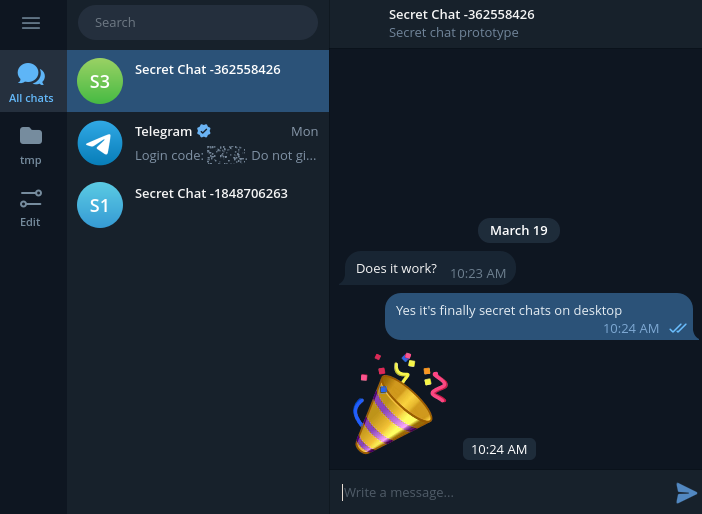
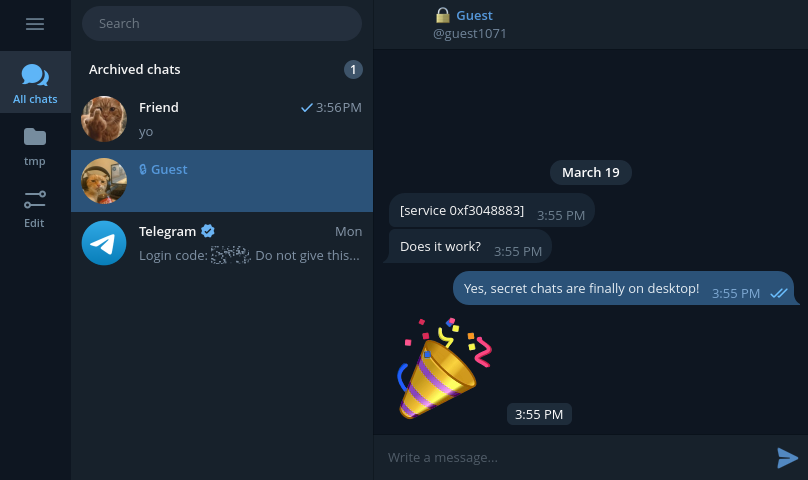
cosmetic improvements

diff --git a/Telegram/SourceFiles/history/view/secret_chat_section.cpp b/Telegram/SourceFiles/history/view/secret_chat_section.cpp
@@ -15,6 +15,7 @@
 
 #include "styles/style_chat.h"
 #include "styles/style_chat_helpers.h"
+#include "styles/style_dialogs.h"
 #include "styles/style_settings.h"
 
 #include "rpl/filter.h"
@@ -23,6 +24,32 @@
 #include <lang_auto.h>
 
 namespace HistoryView {
+
+namespace {
+
+const auto kSecretChatNameColor = QColor(0x4E, 0xAD, 0x41);
+
+void PaintTintedIcon(
+		Painter &p,
+		const style::icon &icon,
+		QPoint position,
+		const QColor &color) {
+	const auto ratio = style::DevicePixelRatio();
+	auto image = QImage(
+		QSize(icon.width() * ratio, icon.height() * ratio),
+		QImage::Format_ARGB32_Premultiplied);
+	image.fill(Qt::transparent);
+	image.setDevicePixelRatio(ratio);
+	{
+		Painter q(&image);
+		icon.paint(q, QPoint(0, 0), icon.width());
+		q.setCompositionMode(QPainter::CompositionMode_SourceIn);
+		q.fillRect(QRect(QPoint(0, 0), QSize(icon.width(), icon.height())), color);
+	}
+	p.drawImage(position, image);
+}
+
+} // namespace
 
 SecretChatMemento::SecretChatMemento(int64_t chatId)
 : _chatId(chatId) {
@@ -66,6 +93,7 @@ SecretChatWidget::SecretChatWidget(
 		tr::lng_message_ph()))
 , _send(std::make_shared<Ui::SendButton>(this, st::historySend)) {
 	_title->setAttribute(Qt::WA_TransparentForMouseEvents);
+	_title->setTextColorOverride(kSecretChatNameColor);
 	_status->setAttribute(Qt::WA_TransparentForMouseEvents);
 	InitMessageField(controller, _field, nullptr);
 	_send->show();
@@ -145,8 +173,11 @@ void SecretChatWidget::checkActivation() {
 
 void SecretChatWidget::resizeEvent(QResizeEvent *e) {
 	SectionWidget::resizeEvent(e);
-	_title->resizeToNaturalWidth(width() - st::previewTop.namePosition.x());
-	_title->move(st::previewTop.namePosition);
+	const auto titleLeft = st::previewTop.namePosition.x()
+		+ st::dialogsUnlockIcon.width()
+		+ st::dialogsChatTypeSkip;
+	_title->resizeToNaturalWidth(width() - titleLeft);
+	_title->move(titleLeft, st::previewTop.namePosition.y());
 	_status->resizeToNaturalWidth(width() - st::previewTop.statusPosition.x());
 	_status->move(st::previewTop.statusPosition);
 	const auto composeHeight = _field->height() + 2 * st::historySendPadding;
@@ -171,6 +202,11 @@ void SecretChatWidget::paintEvent(QPaintEvent *e) {
 		e->rect());
 	p.fillRect(0, height() - st::historySendSize.height(), width(), st::historySendSize.height(), st::historyComposeAreaBg);
 	p.fillRect(0, 0, width(), st::previewTop.height, st::topBarBg);
+	PaintTintedIcon(
+		p,
+		st::dialogsUnlockIcon,
+		st::previewTop.namePosition,
+		kSecretChatNameColor);
 	p.fillRect(0, st::previewTop.height, width(), st::lineWidth, st::shadowFg);
 	p.fillRect(0, height() - st::historySendSize.height() - st::lineWidth, width(), st::lineWidth, st::shadowFg);
 }

diff --git a/Telegram/SourceFiles/dialogs/ui/dialogs_layout.cpp b/Telegram/SourceFiles/dialogs/ui/dialogs_layout.cpp
@@ -54,6 +54,27 @@ namespace Dialogs::Ui {
 namespace {
 
 const auto kPsaBadgePrefix = "cloud_lng_badge_psa_";
+const auto kSecretChatNameColor = QColor(0x4E, 0xAD, 0x41);
+
+void PaintTintedIcon(
+		Painter &p,
+		const style::icon &icon,
+		QPoint position,
+		const QColor &color) {
+	const auto ratio = style::DevicePixelRatio();
+	auto image = QImage(
+		QSize(icon.width() * ratio, icon.height() * ratio),
+		QImage::Format_ARGB32_Premultiplied);
+	image.fill(Qt::transparent);
+	image.setDevicePixelRatio(ratio);
+	{
+		Painter q(&image);
+		icon.paint(q, QPoint(0, 0), icon.width());
+		q.setCompositionMode(QPainter::CompositionMode_SourceIn);
+		q.fillRect(QRect(QPoint(0, 0), QSize(icon.width(), icon.height())), color);
+	}
+	p.drawImage(position, image);
+}
 
 [[nodiscard]] bool ShowUserBotIcon(not_null<UserData*> user) {
 	return user->isBot()
@@ -488,6 +509,15 @@ void PaintRow(
 				+ chatTypeIcon->width()
 				+ st::dialogsChatTypeSkip);
 		}
+	} else if (entry->asSecretChat()) {
+		PaintTintedIcon(
+			p,
+			st::dialogsUnlockIcon,
+			rectForName.topLeft(),
+			kSecretChatNameColor);
+		rectForName.setLeft(rectForName.left()
+			+ st::dialogsUnlockIcon.width()
+			+ st::dialogsChatTypeSkip);
 	}
 	auto texttop = context.st->textTop;
 	if (const auto folder = entry->asFolder()) {
@@ -816,20 +846,35 @@ void PaintRow(
 			.elisionLines = 1,
 		});
 	} else {
-		p.setPen(context.active
-			? st::dialogsNameFgActive
-			: entry->folder()
-			? (context.selected
-				? st::dialogsArchiveFgOver
-				: st::dialogsArchiveFg)
-			: (context.selected
-				? st::dialogsNameFgOver
-				: st::dialogsNameFg));
-		rowName.draw(p, {
-			.position = rectForName.topLeft(),
-			.availableWidth = rectForName.width(),
-			.elisionLines = 1,
-		});
+		if (entry->asSecretChat()) {
+			p.setPen(kSecretChatNameColor);
+		} else {
+			p.setPen(context.active
+				? st::dialogsNameFgActive
+				: entry->folder()
+				? (context.selected
+					? st::dialogsArchiveFgOver
+					: st::dialogsArchiveFg)
+				: (context.selected
+					? st::dialogsNameFgOver
+					: st::dialogsNameFg));
+		}
+		if (entry->asSecretChat()) {
+			const auto text = st::semiboldFont->elided(
+				entry->chatListName(),
+				rectForName.width());
+			p.drawTextLeft(
+				rectForName.left(),
+				rectForName.top(),
+				context.width,
+				text);
+		} else {
+			rowName.draw(p, {
+				.position = rectForName.topLeft(),
+				.availableWidth = rectForName.width(),
+				.elisionLines = 1,
+			});
+		}
 	}
 
 	if (const auto tags = context.chatsFilterTags) {
